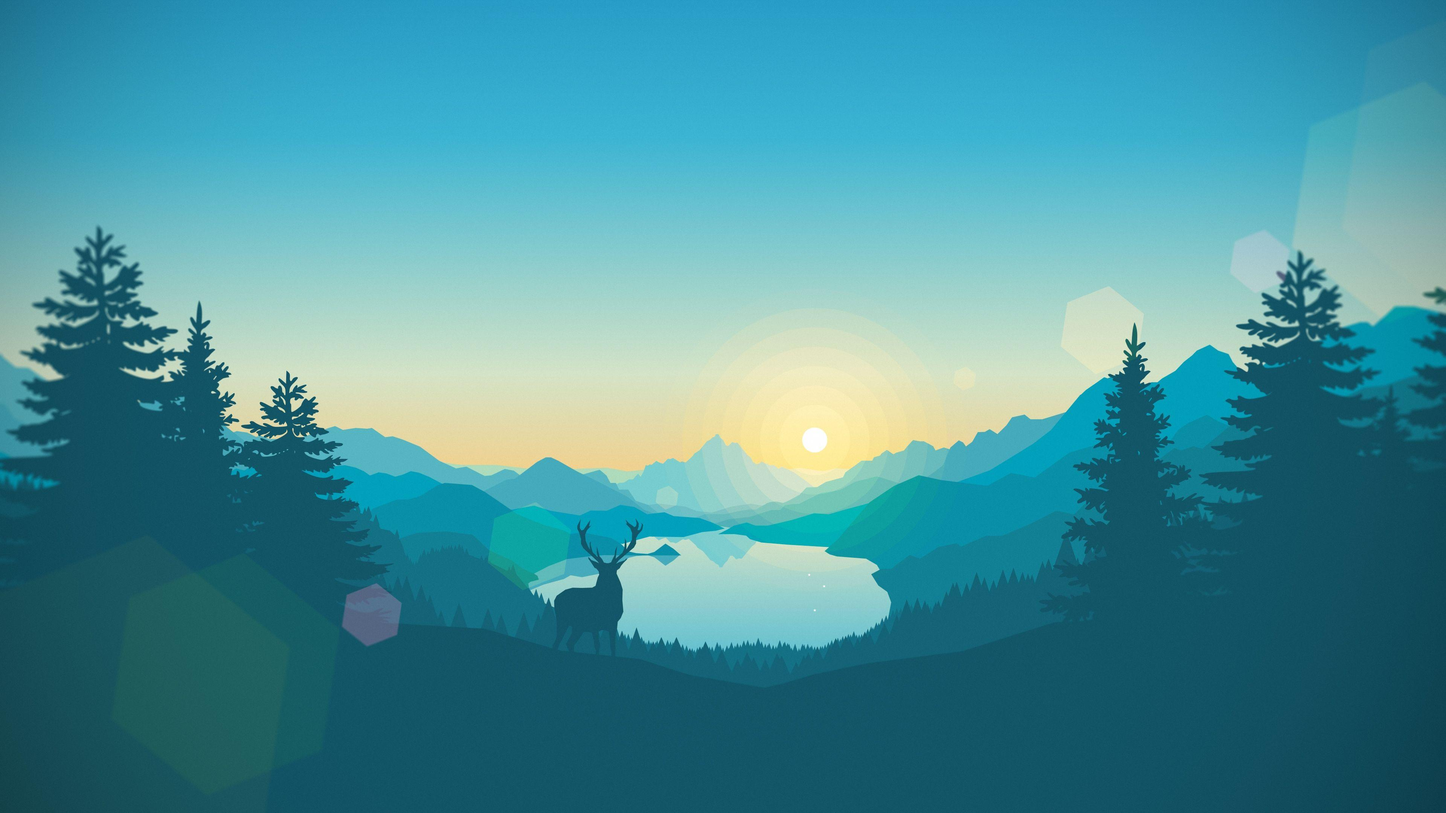
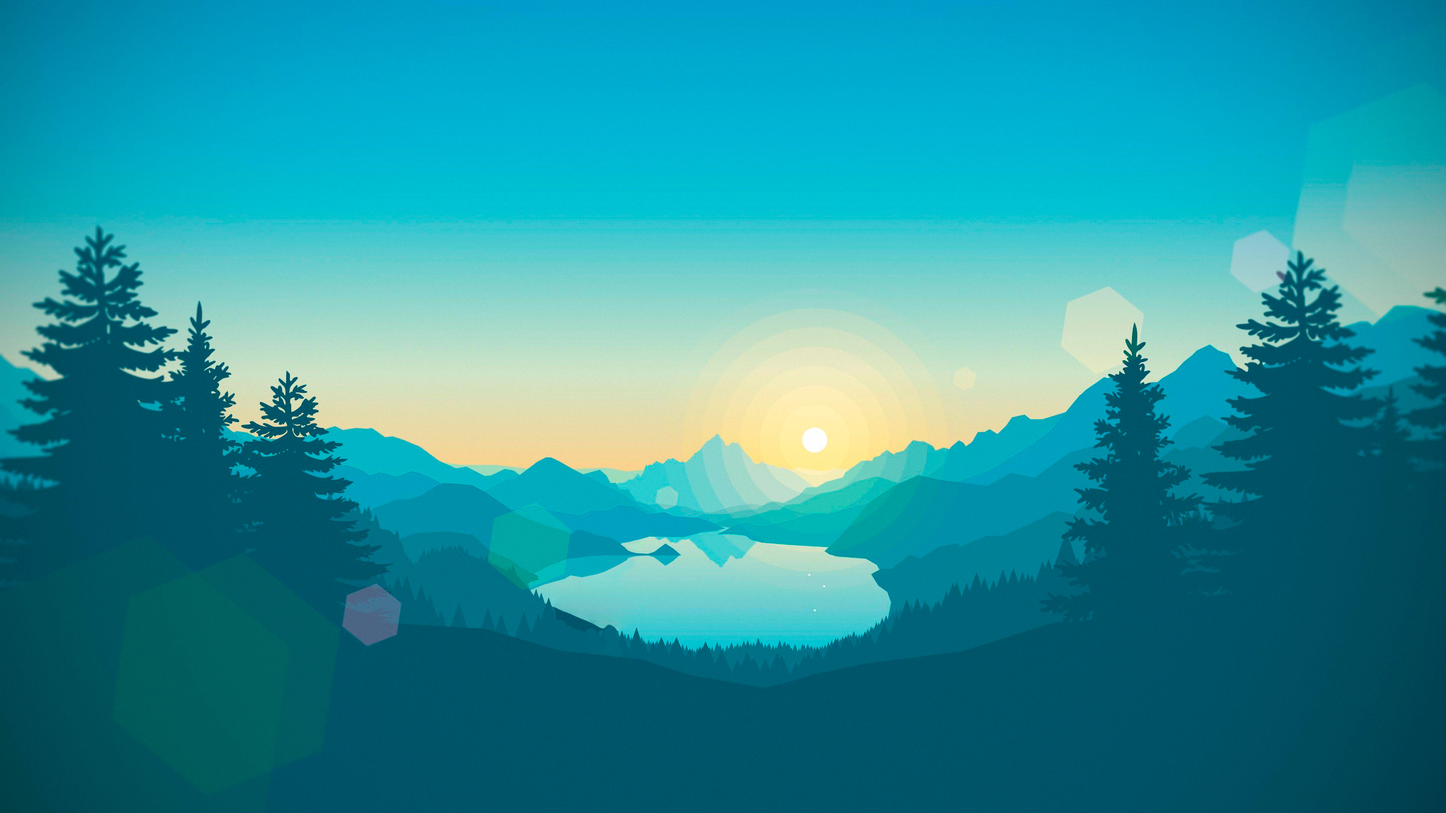
erase animals background

diff --git a/weatherApp/src/style.css b/weatherApp/src/style.css
@@ -26,25 +26,25 @@
   overflow: hidden;
 }
 
-.background{
+.background {
   width: 100vw;
   height: 100vh;
   position: relative;
-  
 }
 
 .circleContainer {
-
   position: absolute;
 
   width: 100%;
   height: 100%;
 
   /*? format Background_img 1:1*/
-  transform: scale(2); 
+  transform: scale(2);
 }
 
-.circle.A, .circle.B, .circle.C {
+.circle.A,
+.circle.B,
+.circle.C {
   width: 100%;
   height: 100%;
 
@@ -61,7 +61,7 @@
 
 .circle.B {
   clip-path: circle(25% at 50% 50%);
-  z-index: 2; ;
+  z-index: 2;
 }
 
 .circle.C {
@@ -69,15 +69,18 @@
 }
 
 .circleDarktransp {
-
   position: absolute;
   z-index: 2;
-  
+
   width: 100%;
   height: 100%;
 
   clip-path: circle(50% at 50% 50%);
-  background: radial-gradient(circle at 50% 50%, transparent 42.5%, rgba(0, 0, 0, 0.1) 42.5%);
+  background: radial-gradient(
+    circle at 50% 50%,
+    transparent 42.5%,
+    rgba(0, 0, 0, 0.1) 42.5%
+  );
 }
 
 /*TODO: ROTATE TEST BUTTON*/
@@ -88,7 +91,7 @@
   z-index: 4;
   width: 50px; /* Ajusta el ancho del botón */
   height: 50px; /* Ajusta el alto del botón */
-  background-color: #FFF; /* Cambia el color de fondo del botón a rojo */
+  background-color: #fff; /* Cambia el color de fondo del botón a rojo */
   color: #000;
   font-weight: bold;
   text-transform: uppercase;
@@ -98,20 +101,52 @@
 }
 
 .circle.C.rotate {
-  animation: rotation 1.2s  cubic-bezier(0.645, 0.045, 0.355, 1);
+  animation: rotation 1.2s cubic-bezier(0.645, 0.045, 0.355, 1);
 }
 
 .circle.B.rotate {
-  animation: rotation .9s  cubic-bezier(0.645, 0.045, 0.355, 1);
+  animation: rotation 0.9s cubic-bezier(0.645, 0.045, 0.355, 1);
 }
 
 .circle.A.rotate {
-  animation: rotation .6s  cubic-bezier(0.645, 0.045, 0.355, 1);
+  animation: rotation 0.6s cubic-bezier(0.645, 0.045, 0.355, 1);
 }
-
 
 @keyframes rotation {
   from {
     transform: rotate(0deg);
   }
+}
+
+/*! EXPERIMENTAL ZONE: UI*/
+.containerUI {
+  display: flex;
+  flex-direction: column;
+  justify-content: center;
+  align-items: center;
+  position: relative;
+
+  width: 100%;
+  height: 100%;
+  z-index: 5;
+}
+
+.tittle {
+  position: absolute;
+  font-size: 2.5em;
+  font-weight: 300;
+  color: #fff;
+  margin-bottom: 1.5rem;
+  text-align: center;
+  text-shadow: -1px -1px 0 #000, 1px -1px 0 #000, -1px 1px 0 #000, 1px 1px 0 #000, 0 2px 1px #333, 
+  -1px 3px 1px #333;
+}
+
+.bar {
+  position: absolute;
+  width: 100%;
+  height: 6px;
+  background-color: #fff;
+  border: 1px solid #000;
+  box-shadow: 0 2px 1px #333;
 }

diff --git a/weatherApp/src/WeatherApp/circleContainer.jsx b/weatherApp/src/WeatherApp/circleContainer.jsx
@@ -8,6 +8,9 @@ export const Background = ({ bgImg, rotateDeg, shouldRotate, opacity }) => {
     if (shouldRotate) {
       setRotate(rotateDeg);
       setLocalOpacity(opacity ? 0 : 1);
+    } else {
+      setRotate(0);
+      setLocalOpacity(opacity);
     }
   }, [shouldRotate, rotateDeg, opacity]);
 
@@ -15,7 +18,7 @@ export const Background = ({ bgImg, rotateDeg, shouldRotate, opacity }) => {
     backgroundImage: `url(${bgImg})`,
     transform: `rotate(${rotate}deg)`,
     opacity: localOpacity,
-    transition: 'opacity 2s ease-out'
+    transition: 'opacity 1.5s ease-out'
   };
 
   return (

diff --git a/weatherApp/src/WeatherApp/UI.jsx b/weatherApp/src/WeatherApp/UI.jsx
@@ -2,7 +2,21 @@ import React from 'react';
 
 export const UI = ({ handleRotate }) => {
   return (
+    
+    <>
+    <div className="containerUI">
+      <div className="tittle">
+        <h1>WEATHER APP</h1>
+        <div className="bar"></div>
+        <h2>SEARCH CITY</h2>
+      </div>
+
+
+
+
     <button className="buttonRotate" onClick={handleRotate}>Rotate</button>
+    </div>
+    </>
   );
 };
 

diff --git a/weatherApp/src/App.jsx b/weatherApp/src/App.jsx
@@ -4,7 +4,7 @@ import { Background } from './WeatherApp/circleContainer.jsx';
 import { UI } from './WeatherApp/UI.jsx';
 
 
-import homeImg from "./assets/Backgrounds/home.png";
+import homeImg from "./assets/Backgrounds/home.jpg";
 import clearImg from "./assets/Backgrounds/clear.jpg";
 
 
